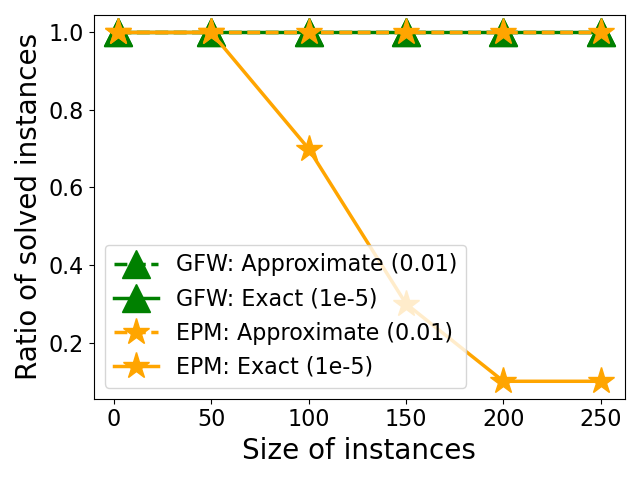
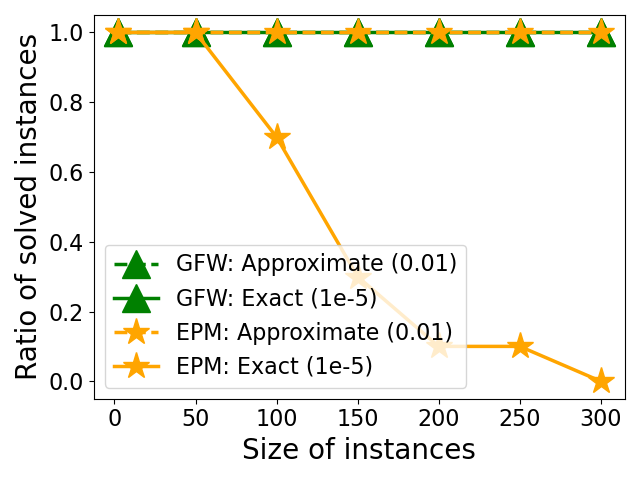
update data and plots

diff --git a/chores_ceei_experiments.py b/chores_ceei_experiments.py
@@ -240,9 +240,9 @@ def QMO(ux0, N, A, b, C=None, d=None, solver='OSQP'):
         m = gp.Model(env=env)
 
         m.Params.LogToConsole = 0
-        m.Params.FeasibilityTol = 1e-9
-        m.Params.OptimalityTol = 1e-9
-        m.Params.BarConvTol = 1e-16
+        # m.Params.FeasibilityTol = 1e-9
+        # m.Params.OptimalityTol = 1e-9
+        m.Params.BarConvTol = 0
         # m.Params.BarCorrectors = 10000
 
         u = m.addMVar(N)
@@ -439,7 +439,7 @@ def EPM(N, M, D, B, QMO_solver='best', print_quality=False, print_progress=False
 run, save, and plot
 """
 
-def run_GFW_vs_EPM(N, M, random_generating_method='uniform', num_seeds=10, num_iter_max_cap=100, running_time_max_cap=100, return_eq=False):
+def run_GFW_vs_EPM(N, M, random_generating_method='uniform', num_seeds=10, num_iter_max_cap=80, running_time_max_cap=100, return_eq=False):
 
     def average(lst):  # return the average of a list
         num_nonNone = 0
@@ -534,6 +534,8 @@ def run_GFW_vs_EPM(N, M, random_generating_method='uniform', num_seeds=10, num_i
     data_EPM['solved-e'] = num_ins_EPM_solved[1]
     data_EPM['running-time-a1'] = min(average(running_time_EPM_list[0]), running_time_max_cap)
     data_EPM['running-time-e'] = min(average(running_time_EPM_list[1]), running_time_max_cap)
+
+    print(f"STATS: {data_GFW['num-iter-e']}/{data_GFW['solved-e']}/{data_GFW['running-time-e']} vs {data_EPM['num-iter-e']}/{data_EPM['solved-e']}/{data_EPM['running-time-e']}")
 
     return data_GFW, data_EPM
 
@@ -631,13 +633,13 @@ def plot_and_save(data, random_generating_method, num_seeds=10, download_fig=Fal
 
 if __name__ == "__main__": 
 
-    size_list = [2, 50, 100, 150, 200, 250]
-    rgm_list = ['uniform', 'lognormal', 'truncnormal', 'exponential', 'randint', ]
+    size_list = [2, 50, 100, 150, 200, 250, 300]
+    rgm_list = ['uniform', 'lognormal', 'truncnormal', 'exponential', 'randint']
 
     for rgm in rgm_list:
         print(f"================== {rgm} ==================")
-        data = run_and_save(size_list=size_list, random_generating_method=rgm, num_seeds=10, download_csv=True)
-        plot_and_save(data, random_generating_method=rgm, num_seeds=10, download_fig=True)
+        data = run_and_save(size_list=size_list, random_generating_method=rgm, num_seeds=10)
+        plot_and_save(data, random_generating_method=rgm, num_seeds=10)
 
 
 """
